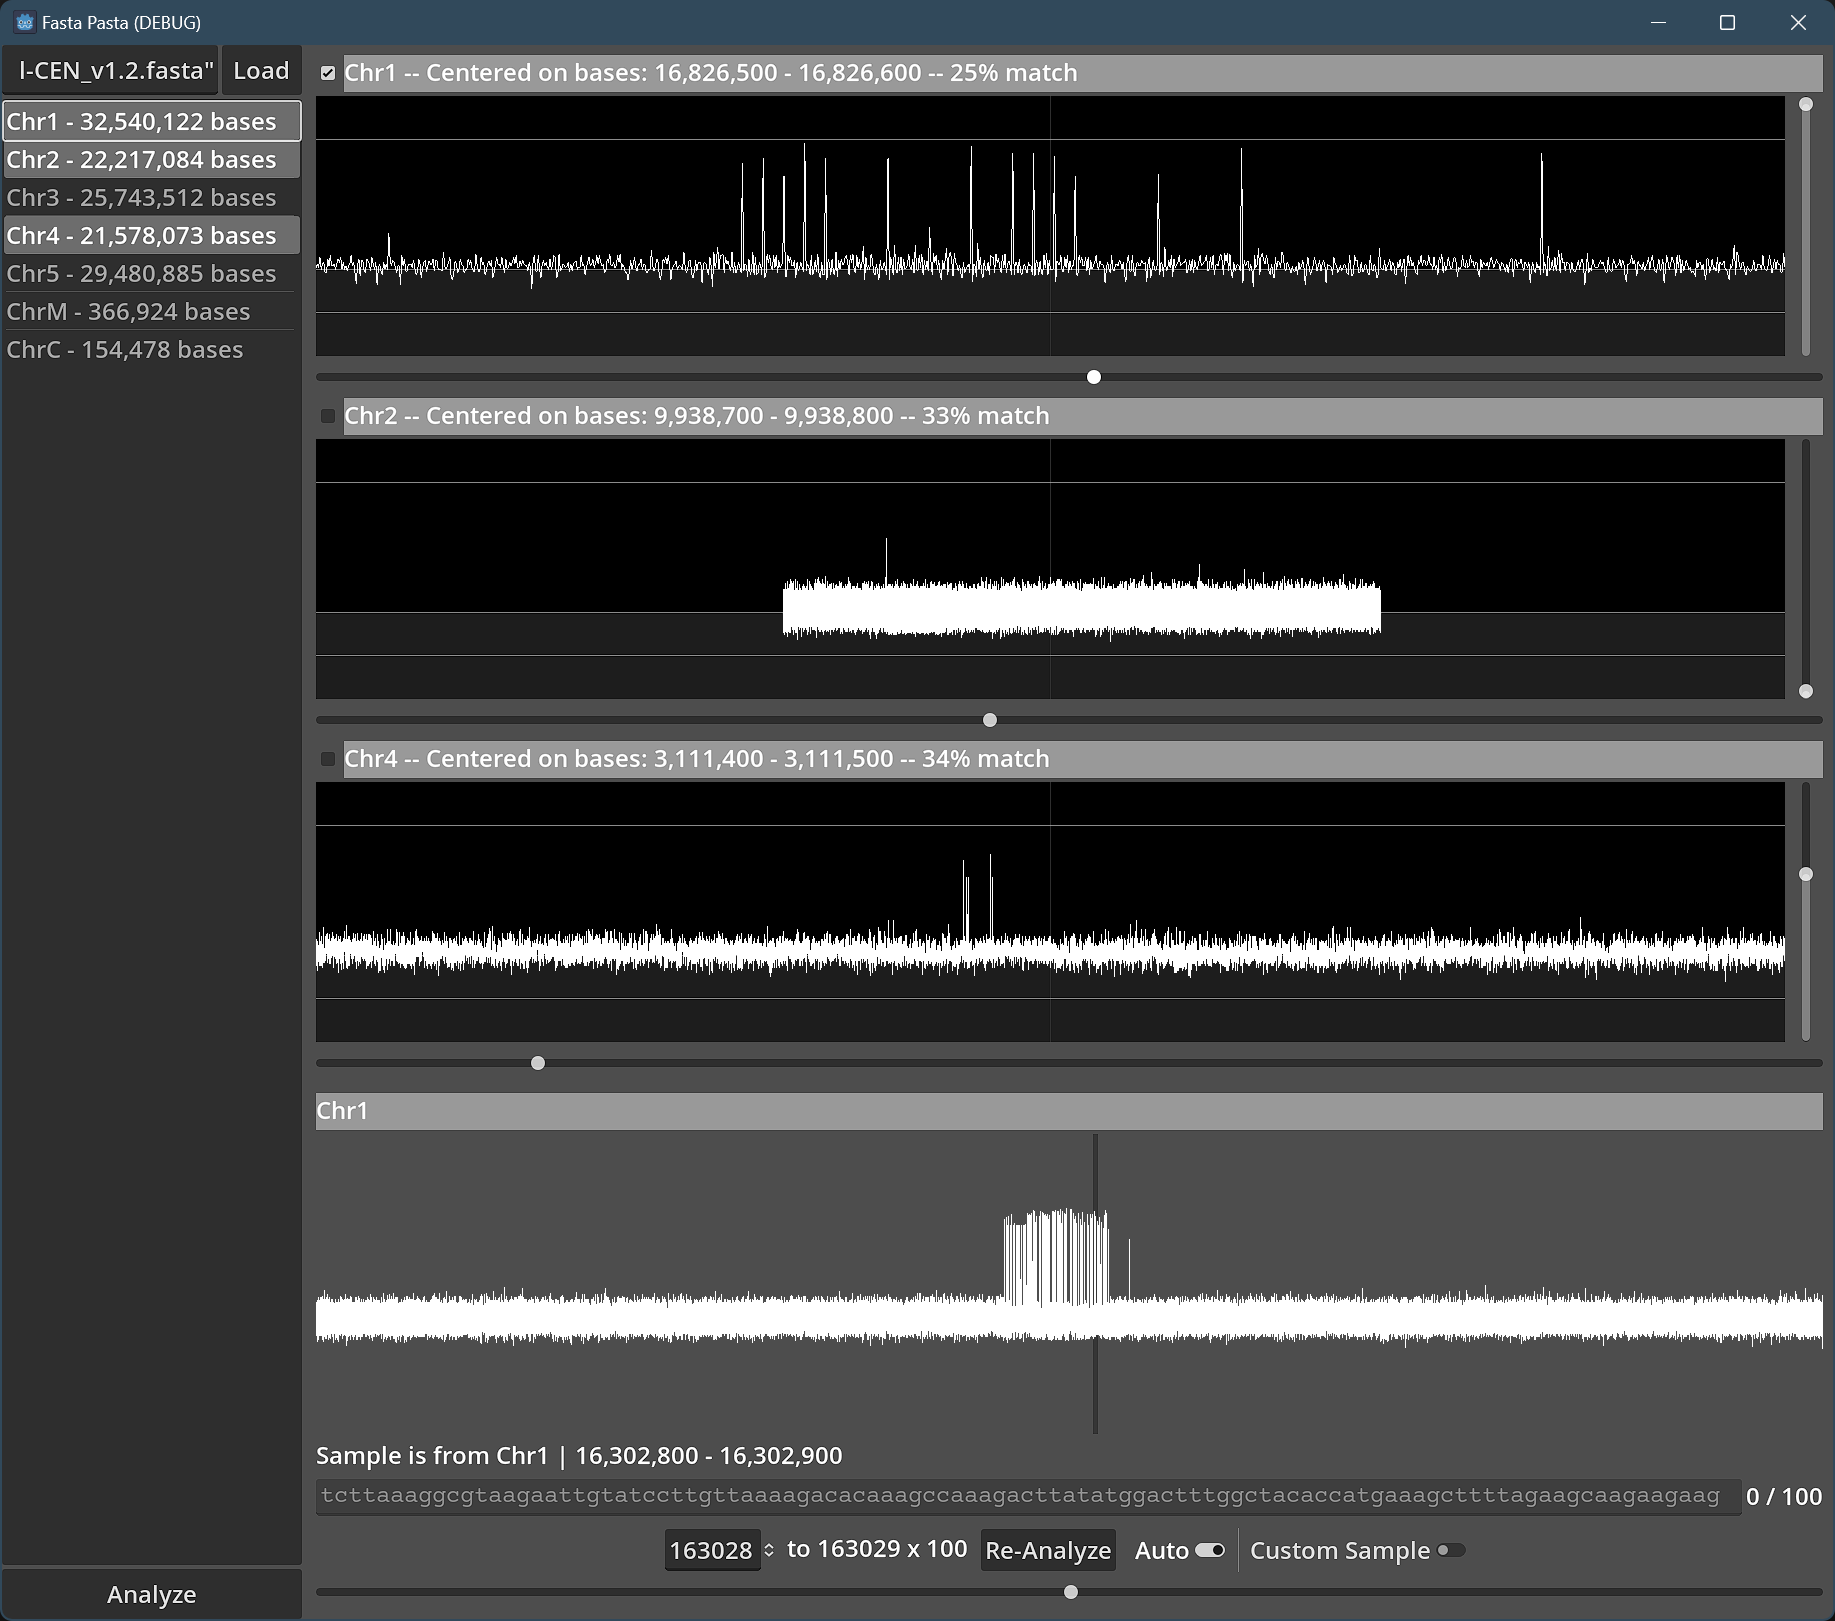
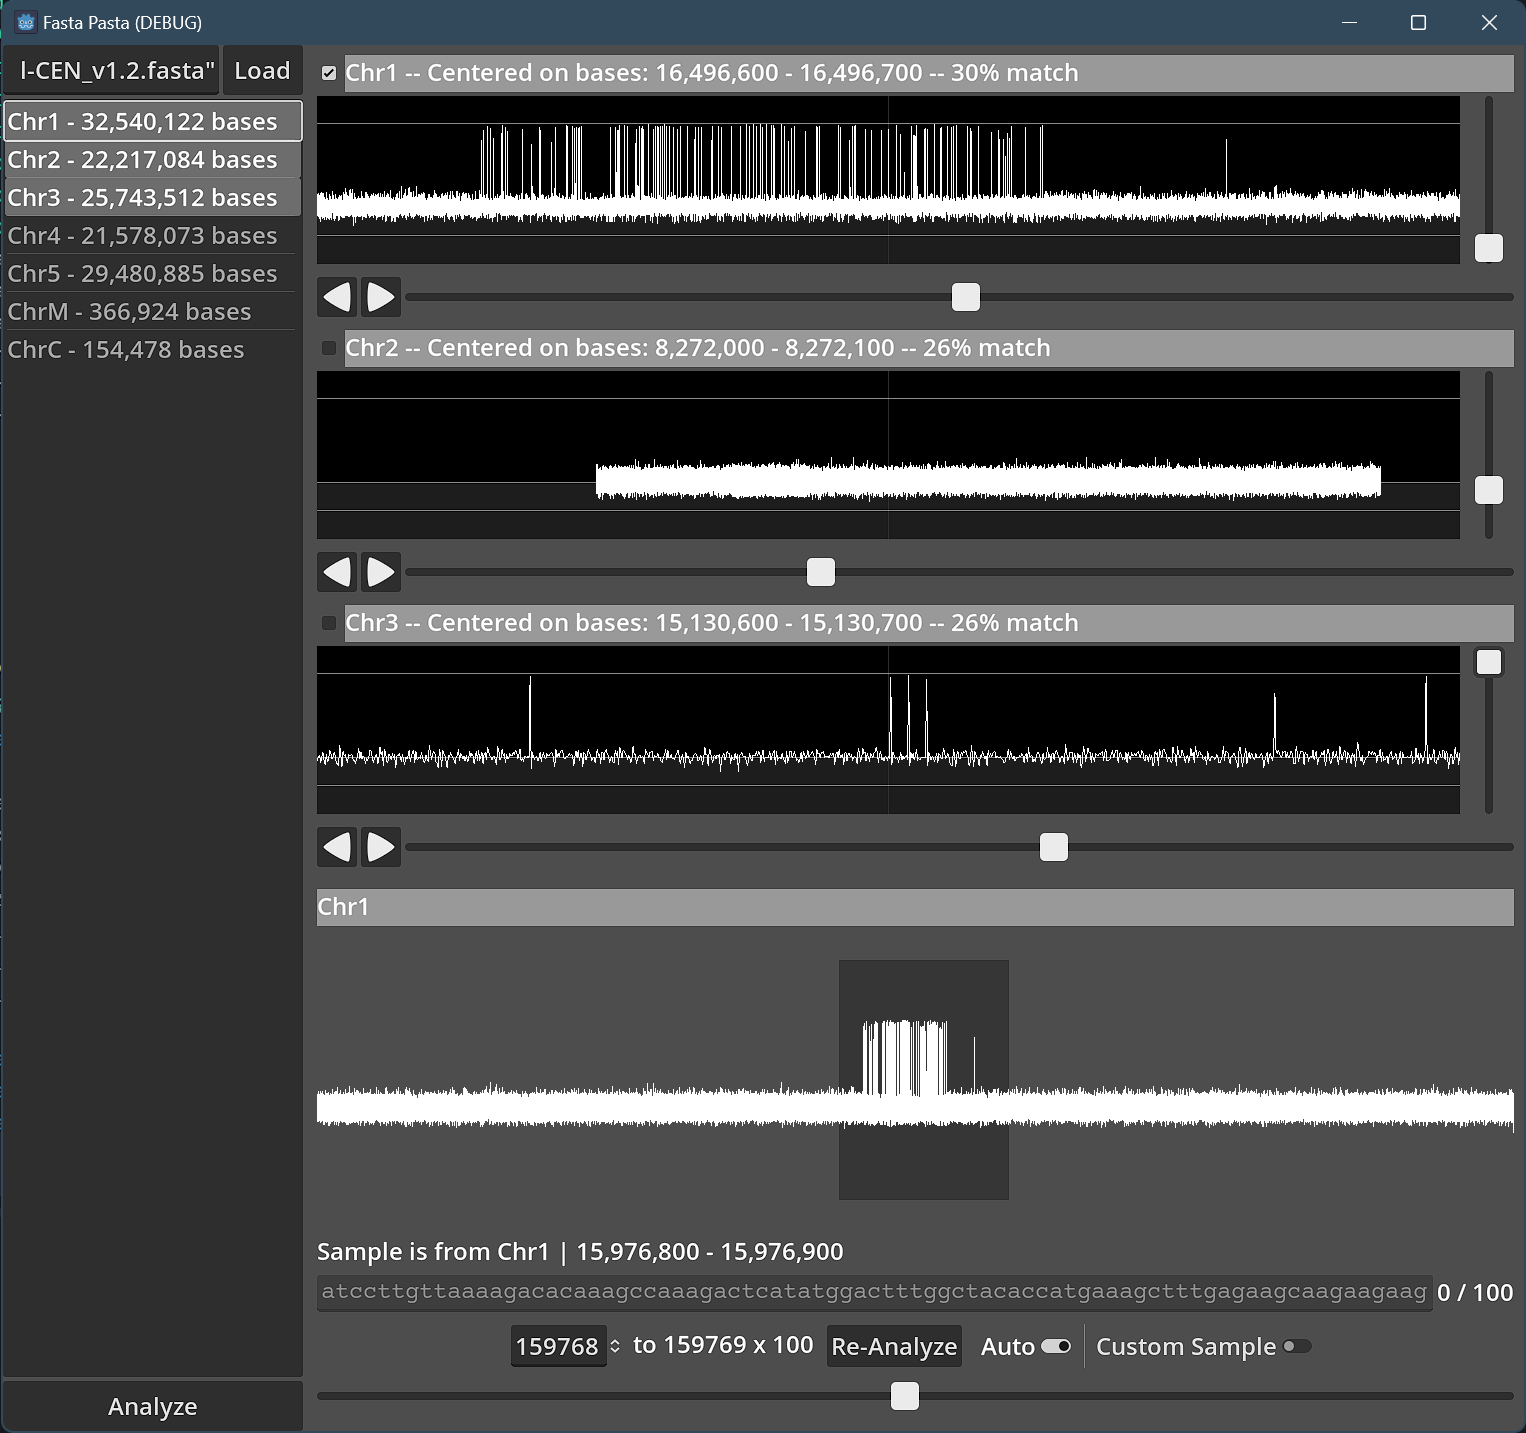
updated readme

diff --git a/README.md b/README.md
@@ -1,8 +1,14 @@
 # Fasta Pasta
 
-This is a graphical tool for analyzing short repeats in DNA sequences.
+This is a graphical tool for analyzing short repeats in DNA sequences. It uses a compute shader running on the GPU to quickly look for matches across sequences up to 152 Mbases long.
 
 ![An image showing an example of the user interface](images/fp1.png)
+
+### Recent Changes
+
+- Scroll and pan sliders are larger and easier to grab
+- Panning can now be adjusted in single increments
+- Loading indicator added
 
 ## Features
 
